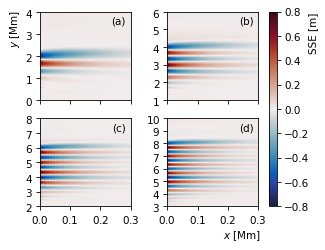
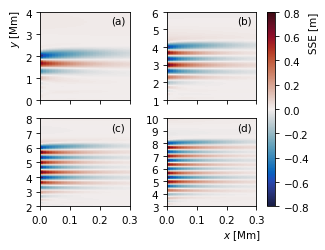
update (see last update)

diff --git a/reproduction-an-2012/create_comparison.py b/reproduction-an-2012/create_comparison.py
@@ -94,7 +94,7 @@ def fig_1_contours_sse(dataset: xr.Dataset, saveloc: str) -> None:
 
         ax.set_xticks(np.arange(0, 0.4, 0.1))
         ax.set_yticks(np.arange(y_min_list[i], y_max_list[i] + 1, 1))
-        ax.ticklabel_format(useMathText=True, scilimits=(-2, 2))
+        ax.ticklabel_format(scilimits=(-2, 2))
 
     # Colorbar
     cb = fig.colorbar(im, ax=axes, fraction=0.1, aspect=25, pad=0.01)
@@ -182,7 +182,7 @@ def fig_2_along_sse(dataset: xr.Dataset, saveloc: str) -> None:
 
         ax.set_xticks(np.arange(y_min_list[i], y_max_list[i] + 1, 1))
         ax.set_yticks([-1.0, -0.5, 0, 0.5, 1.0])
-        ax.ticklabel_format(useMathText=True, scilimits=(-2, 2))
+        ax.ticklabel_format(scilimits=(-2, 2))
 
     # End
     tb = time.perf_counter_ns()
@@ -293,7 +293,6 @@ def fig_3_cross_sse(dataset: xr.Dataset, saveloc: str) -> None:
 
     ax.set_xticks([10, 100, 200, 300, 400, 500, 600])
     ax.set_yticks(np.arange(0, 0.9, 0.1))
-    ax.ticklabel_format(useMathText=True)
 
     ax.legend(fontsize="small")
 
